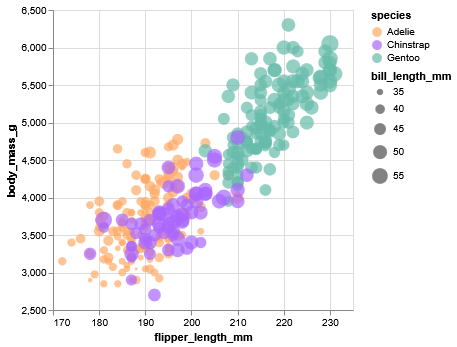
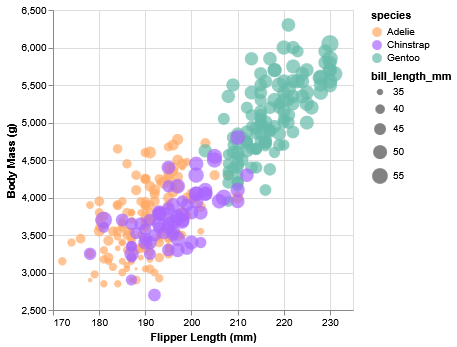
fix: altair axis titles
The axis titles were the field names, which weren't wrong, but weren't a
replication of the given chart.

Changed region(s): [[0.3063, 0.951, 0.5821, 1.0], [0.0, 0.3458, 0.0613, 0.4899], [0.0, 0.5187, 0.0306, 0.5764]]

diff --git a/pychart/alt.py b/pychart/alt.py
@@ -11,8 +11,8 @@ def main():
 
     df = pd.read_csv(sys.argv[1])
     chart = alt.Chart(df).mark_circle().encode( # type: ignore
-        x=alt.X("flipper_length_mm:Q").scale(zero=False),
-        y=alt.Y("body_mass_g:Q").scale(zero=False),
+        x=alt.X("flipper_length_mm:Q", title="Flipper Length (mm)").scale(zero=False),
+        y=alt.Y("body_mass_g:Q", title="Body Mass (g)").scale(zero=False),
         size=alt.Size("bill_length_mm:Q").scale(zero=False, range=[10,300]),
         color=alt.Color("species:N").scale(range=["#ffaa66", "#aa66ff", "#66bbaa"])
     )
